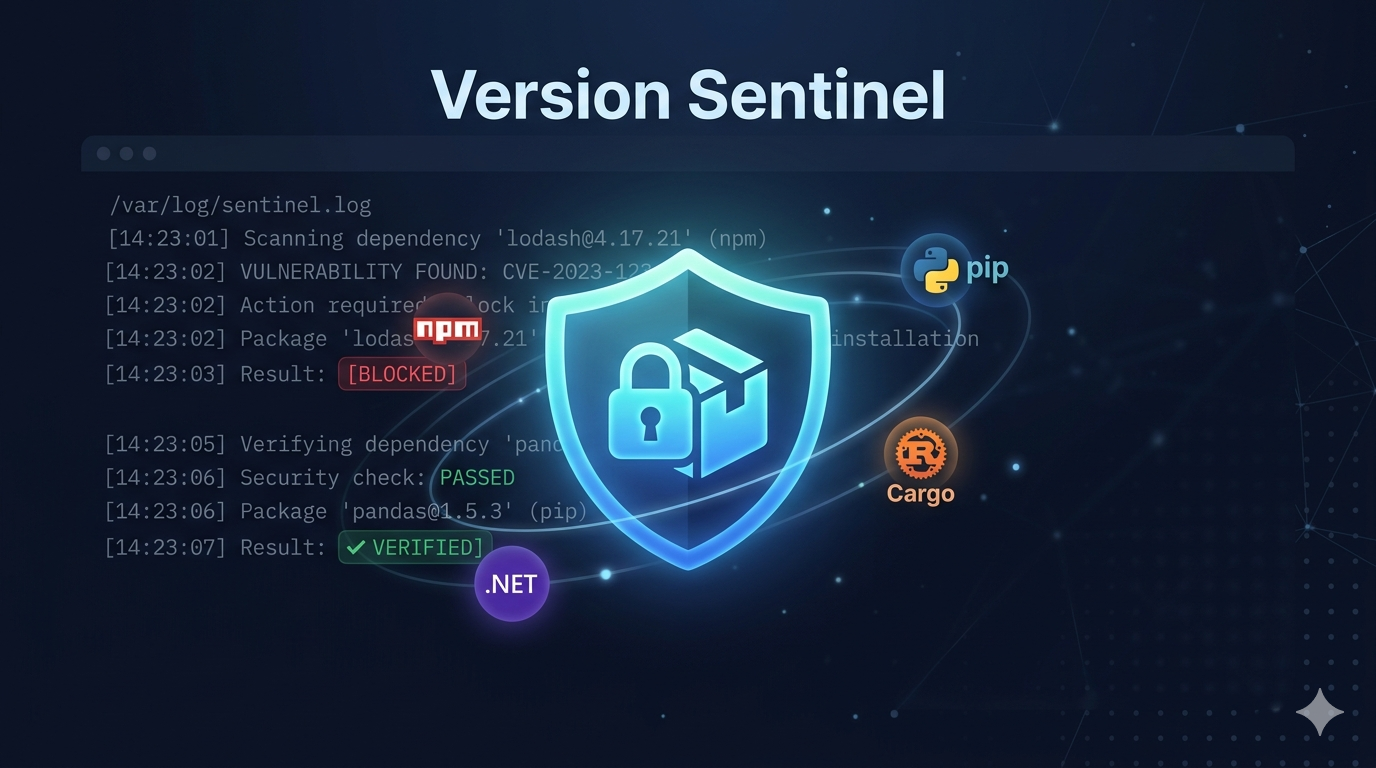
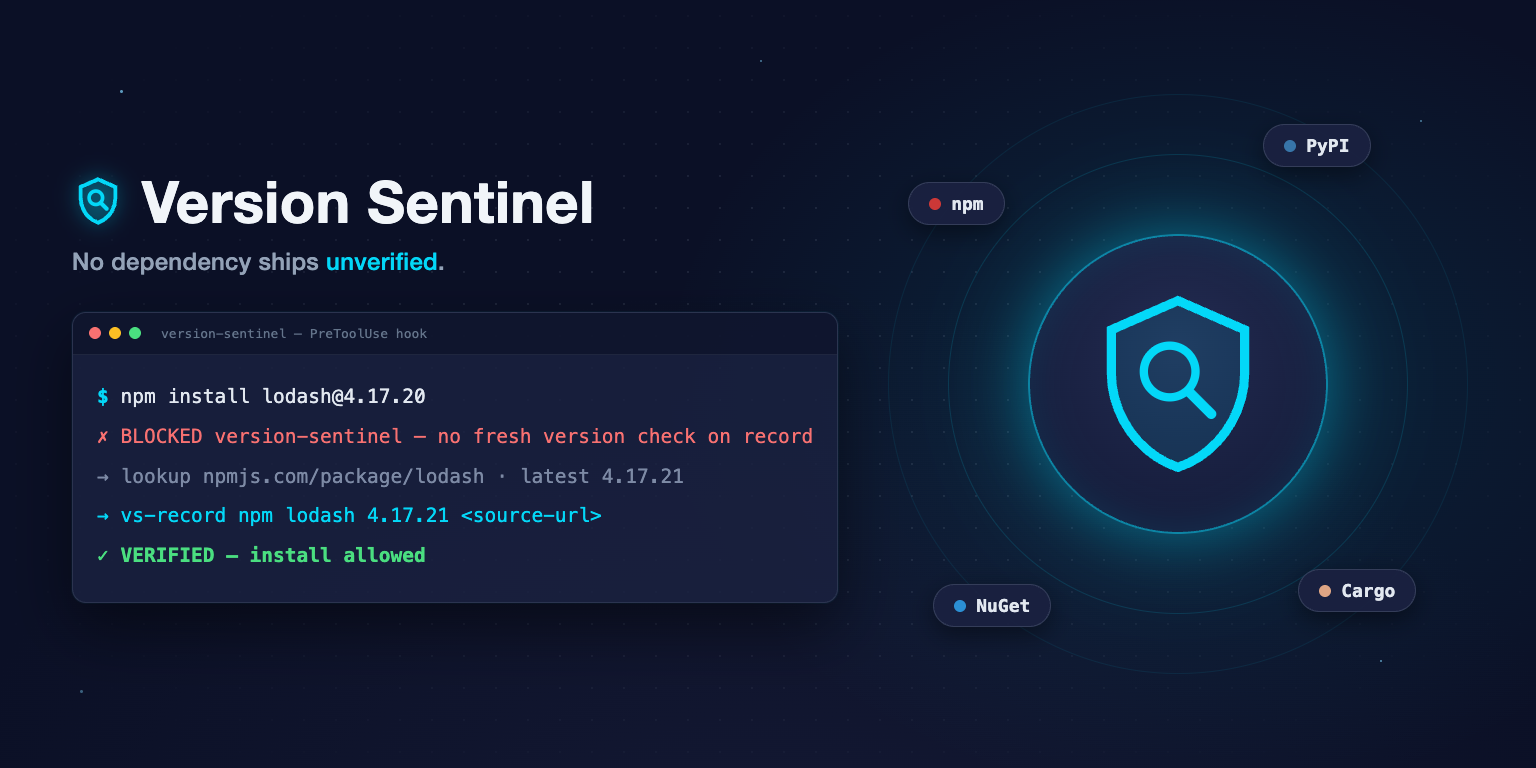
fix: update hero image and enhance README layout

diff --git a/assets/hero.html b/assets/hero.html
@@ -1,0 +1,173 @@
+<!DOCTYPE html>
+<html>
+<head>
+<meta charset="utf-8">
+<style>
+  * { margin: 0; padding: 0; box-sizing: border-box; }
+  html, body { width: 1536px; height: 768px; overflow: hidden; }
+  body {
+    font-family: -apple-system, "SF Pro Display", "Helvetica Neue", sans-serif;
+    background:
+      radial-gradient(ellipse 900px 700px at 78% 50%, rgba(3,216,248,0.10), transparent 60%),
+      radial-gradient(ellipse 1200px 900px at 50% 120%, #141934 0%, #0b1026 70%);
+    background-color: #0b1026;
+    position: relative;
+  }
+  /* dot grid */
+  .dots {
+    position: absolute; inset: 0;
+    background-image: radial-gradient(rgba(148,163,184,0.13) 1px, transparent 1px);
+    background-size: 32px 32px;
+    mask-image: radial-gradient(ellipse 80% 80% at 50% 50%, black 30%, transparent 75%);
+    -webkit-mask-image: radial-gradient(ellipse 80% 80% at 50% 50%, black 30%, transparent 75%);
+  }
+  .specks { position: absolute; border-radius: 50%; background: #7dd3fc; }
+
+  .layout {
+    position: relative; z-index: 2;
+    display: flex; align-items: center;
+    height: 100%; padding: 0 72px; gap: 40px;
+  }
+
+  /* ---------- left ---------- */
+  .left { flex: 1 1 56%; display: flex; flex-direction: column; gap: 36px; }
+
+  .wordmark { display: flex; align-items: center; gap: 18px; }
+  .wordmark svg { filter: drop-shadow(0 0 10px rgba(3,216,248,0.55)); }
+  .wordmark h1 {
+    font-size: 58px; font-weight: 800; letter-spacing: 0.5px; color: #f1f5f9;
+  }
+  .tagline {
+    margin-top: 10px; font-size: 24px; color: #94a3b8; font-weight: 500; letter-spacing: 0.3px;
+  }
+  .tagline em { font-style: normal; color: #03d8f8; }
+
+  .terminal {
+    background: rgba(26,33,64,0.82);
+    border: 1px solid rgba(148,163,184,0.16);
+    border-radius: 14px;
+    box-shadow: 0 24px 60px rgba(0,0,0,0.45), 0 0 0 1px rgba(3,216,248,0.05);
+    overflow: hidden;
+    max-width: 780px;
+  }
+  .termbar {
+    display: flex; align-items: center; gap: 8px;
+    padding: 13px 16px;
+    background: rgba(11,16,38,0.65);
+    border-bottom: 1px solid rgba(148,163,184,0.12);
+  }
+  .termbar .dot { width: 12px; height: 12px; border-radius: 50%; }
+  .termbar .r { background: #f87171; } .termbar .y { background: #fbbf24; } .termbar .g { background: #4ade80; }
+  .termbar .title {
+    margin-left: 12px; font-family: "SF Mono", Menlo, monospace;
+    font-size: 13px; color: #64748b;
+  }
+  .termbody {
+    padding: 22px 24px 26px;
+    font-family: "SF Mono", Menlo, monospace;
+    font-size: 19.5px; line-height: 2.05; white-space: nowrap;
+  }
+  .cmd  { color: #e2e8f0; }
+  .cmd .prompt { color: #03d8f8; font-weight: 700; }
+  .blocked { color: #f87171; }
+  .muted { color: #7d8aa5; }
+  .rec   { color: #03d8f8; }
+  .ok    { color: #4ade80; font-weight: 700; }
+
+  /* ---------- right ---------- */
+  .right { flex: 1 1 44%; position: relative; height: 640px; }
+
+  .orbit-ring {
+    position: absolute; border: 1px solid rgba(3,216,248,0.14); border-radius: 50%;
+  }
+  .ring1 { width: 460px; height: 460px; left: 70px; top: 90px; }
+  .ring2 { width: 580px; height: 580px; left: 10px; top: 30px; border-color: rgba(3,216,248,0.08); }
+
+  .shield-disc {
+    position: absolute; left: 150px; top: 170px;
+    width: 300px; height: 300px; border-radius: 50%;
+    background: radial-gradient(circle at 50% 38%, #232c52 0%, #161d3c 70%);
+    border: 2px solid rgba(3,216,248,0.55);
+    box-shadow:
+      0 0 60px rgba(3,216,248,0.35),
+      0 0 140px rgba(3,216,248,0.18),
+      inset 0 0 40px rgba(3,216,248,0.10);
+    display: flex; align-items: center; justify-content: center;
+  }
+  .shield-disc img { width: 205px; height: 205px; }
+
+  .pill {
+    position: absolute;
+    display: flex; align-items: center; gap: 10px;
+    background: rgba(26,33,64,0.92);
+    border: 1px solid rgba(148,163,184,0.22);
+    border-radius: 999px;
+    padding: 10px 20px;
+    font-family: "SF Mono", Menlo, monospace;
+    font-size: 18px; font-weight: 600; color: #e2e8f0;
+    box-shadow: 0 8px 24px rgba(0,0,0,0.4);
+  }
+  .pill .pd { width: 12px; height: 12px; border-radius: 50%; }
+  .npm   { left:  30px; top: 118px; } .npm   .pd { background: #cb3837; }
+  .pypi  { left: 385px; top:  60px; } .pypi  .pd { background: #3775a9; }
+  .cargo { left: 420px; top: 505px; } .cargo .pd { background: #dea584; }
+  .nuget { left:  55px; top: 520px; } .nuget .pd { background: #2b8fd4; }
+</style>
+</head>
+<body>
+  <div class="dots"></div>
+  <div class="specks" style="width:3px;height:3px;left:120px;top:90px;opacity:.7"></div>
+  <div class="specks" style="width:2px;height:2px;left:1420px;top:120px;opacity:.5"></div>
+  <div class="specks" style="width:2px;height:2px;left:1380px;top:660px;opacity:.6"></div>
+  <div class="specks" style="width:3px;height:3px;left:80px;top:690px;opacity:.4"></div>
+  <div class="specks" style="width:2px;height:2px;left:760px;top:60px;opacity:.5"></div>
+
+  <div class="layout">
+    <div class="left">
+      <div>
+        <div class="wordmark">
+          <svg width="52" height="52" viewBox="0 0 24 24" fill="none">
+            <path d="M12 2l8 3.5v5.2c0 5.1-3.4 9.8-8 11.3-4.6-1.5-8-6.2-8-11.3V5.5L12 2z"
+                  stroke="#03d8f8" stroke-width="1.8" fill="rgba(3,216,248,0.12)"/>
+            <circle cx="11" cy="10.5" r="3.1" stroke="#03d8f8" stroke-width="1.7"/>
+            <line x1="13.3" y1="12.9" x2="16" y2="15.6" stroke="#03d8f8" stroke-width="1.9" stroke-linecap="round"/>
+          </svg>
+          <h1>Version Sentinel</h1>
+        </div>
+        <p class="tagline">No dependency ships <em>unverified</em>.</p>
+      </div>
+
+      <div class="terminal">
+        <div class="termbar">
+          <span class="dot r"></span><span class="dot y"></span><span class="dot g"></span>
+          <span class="title">version-sentinel — PreToolUse hook</span>
+        </div>
+        <div class="termbody">
+          <div class="cmd"><span class="prompt">$</span> npm install lodash@4.17.20</div>
+          <div class="blocked">✗ BLOCKED version-sentinel — no fresh version check on record</div>
+          <div class="muted">→ lookup npmjs.com/package/lodash · latest 4.17.21</div>
+          <div class="rec">→ vs-record npm lodash 4.17.21 &lt;source-url&gt;</div>
+          <div class="ok">✓ VERIFIED — install allowed</div>
+        </div>
+      </div>
+    </div>
+
+    <div class="right">
+      <div class="orbit-ring ring2"></div>
+      <div class="orbit-ring ring1"></div>
+      <div class="shield-disc">
+        <svg width="200" height="200" viewBox="0 0 24 24" fill="none">
+          <path d="M12 2l8 3.5v5.2c0 5.1-3.4 9.8-8 11.3-4.6-1.5-8-6.2-8-11.3V5.5L12 2z"
+                stroke="#03d8f8" stroke-width="1.1" fill="rgba(3,216,248,0.10)"/>
+          <circle cx="11" cy="10.5" r="3.1" stroke="#03d8f8" stroke-width="1.0"/>
+          <line x1="13.3" y1="12.9" x2="16" y2="15.6" stroke="#03d8f8" stroke-width="1.2" stroke-linecap="round"/>
+        </svg>
+      </div>
+      <div class="pill npm"><span class="pd"></span>npm</div>
+      <div class="pill pypi"><span class="pd"></span>PyPI</div>
+      <div class="pill cargo"><span class="pd"></span>Cargo</div>
+      <div class="pill nuget"><span class="pd"></span>NuGet</div>
+    </div>
+  </div>
+</body>
+</html>

diff --git a/docs/marketplaces.md b/docs/marketplaces.md
@@ -22,6 +22,7 @@ Submission status legend:
 | Kimi Code | `/plugins install https://github.com/KSEGIT/Version-Sentinel` (or a local path); custom catalog `kimi-marketplace.json` at repo root for `/plugins marketplace <url>` | No official Kimi gallery known — self-hosted catalog | **ready-in-repo** | Optionally verify the `/plugins marketplace <url>` flow in the TUI (install TUI flow still unverified per `docs/e2e-checklist.md`) |
 | Gemini CLI | `gemini extensions install https://github.com/KSEGIT/Version-Sentinel`, then `bash ~/.gemini/extensions/version-sentinel/platforms/gemini/setup.sh` | geminicli.com/extensions gallery — **fully automated daily crawler**, no PR and no form | **requires-owner-form** (one repo-setting change) | Add the GitHub topic `gemini-cli-extension` to the repo's About section; the crawler lists it within ~24h |
 | OpenAI Codex | `codex plugin marketplace add KSEGIT/Version-Sentinel` → `codex plugin add version-sentinel` (works today from GitHub) | Universal OpenAI Plugins Directory (ChatGPT + Codex) | **requires-owner-form** (portal, now self-serve) | Verify developer identity on the OpenAI Platform, then submit via the plugin submission portal (see below) |
+| GitHub Copilot CLI | Once listed: `copilot plugin marketplace add github/awesome-copilot` → `copilot plugin install version-sentinel@awesome-copilot` (verified installable — the awesome-copilot intake smoke test installs from this repo's root `plugin.json` via an ephemeral marketplace) | awesome-copilot external plugin marketplace (`plugins/external.json`, review-workflow gated) | **requires-owner-form** (issue submitted) | Track submission issue [github/awesome-copilot#2598](https://github.com/github/awesome-copilot/issues/2598) — opened 2026-08-09, passed all automated quality gates (`ready-for-review`), awaiting maintainer `/approve`; on approval a bot PR adds the entry automatically |
 | GitHub Copilot in VS Code | Repo-based: `.github/` + `.agents/skills/` are picked up when this repo is the workspace, or copy them into yours | None | **no-marketplace** | None — distribution is "use this repo as (part of) your workspace" |
 | Zed | Repo-based: `AGENTS.md` + `.agents/skills/` + `docs/zed.md` (static-permissions approximation; no hook support) | None | **no-marketplace** | None |
 
@@ -123,6 +124,34 @@ Submission status legend:
   privacy/terms URLs.
 - Sources: [Codex plugins overview](https://developers.openai.com/codex/plugins),
   [Submit plugins — OpenAI Developers](https://developers.openai.com/plugins/deploy/submission).
+
+### GitHub Copilot CLI — awesome-copilot marketplace
+
+- The [github/awesome-copilot](https://github.com/github/awesome-copilot)
+  collection lists external plugins in `plugins/external.json`; public
+  contributors must **not** PR that file directly — submission is an
+  issue-form workflow (`[External Plugin]:` issue) with automated intake
+  (`vally lint` + a Copilot CLI install smoke test + version/ref-sha
+  consistency gates), then maintainer `/approve` opens the listing PR.
+- Submitted 2026-08-09 as
+  [github/awesome-copilot#2598](https://github.com/github/awesome-copilot/issues/2598)
+  for `version-sentinel` 0.4.1 (ref `version-sentinel-v0.4.1`, sha
+  `f3d5349685f22c96069383a559ed741b42bed508`, plugin at repo root). All
+  blocking gates passed; the issue is `ready-for-review`.
+  - Gotcha hit during intake: leaving `/` in the form's *Plugin path* field
+    produces `source.path: "/"`, which the Copilot CLI smoke test rejects
+    ("Plugin path escapes repository directory") — leave the field empty for
+    a root plugin.
+  - Non-blocking spec warnings remain: our `plugin.json` carries Claude
+    Code top-level fields (`skills`, `agents`, `commands`, `userConfig`)
+    outside Agent Plugins v1.0.0. They are required by the other platforms;
+    do not "fix" them for this listing.
+- After approval, a nightly job re-reviews listings every six months on the
+  original issue (`/re-review-keep` et al. are maintainer commands).
+- The gates can be rehearsed locally before any resubmission: clone
+  awesome-copilot, `npm install`, and run
+  `node eng/external-plugin-quality-gates.mjs --plugin-json '<entry json>'`
+  with `copilot` on PATH (`@github/copilot` npm package).
 
 ### GitHub Copilot in VS Code / Zed
 

diff --git a/README.md b/README.md
@@ -1,8 +1,6 @@
 <p align="center">
-  <img src="assets/logo.svg" alt="Version Sentinel" width="200" />
+  <img src="assets/hero.png" alt="Version Sentinel — no dependency ships unverified" width="864" />
 </p>
-
-<h1 align="center">version-sentinel</h1>
 
 <p align="center">
   <a href="https://github.com/KSEGIT/Version-Sentinel/releases/latest"><img src="https://img.shields.io/github/v/release/KSEGIT/Version-Sentinel?color=blue" alt="Release" /></a>
